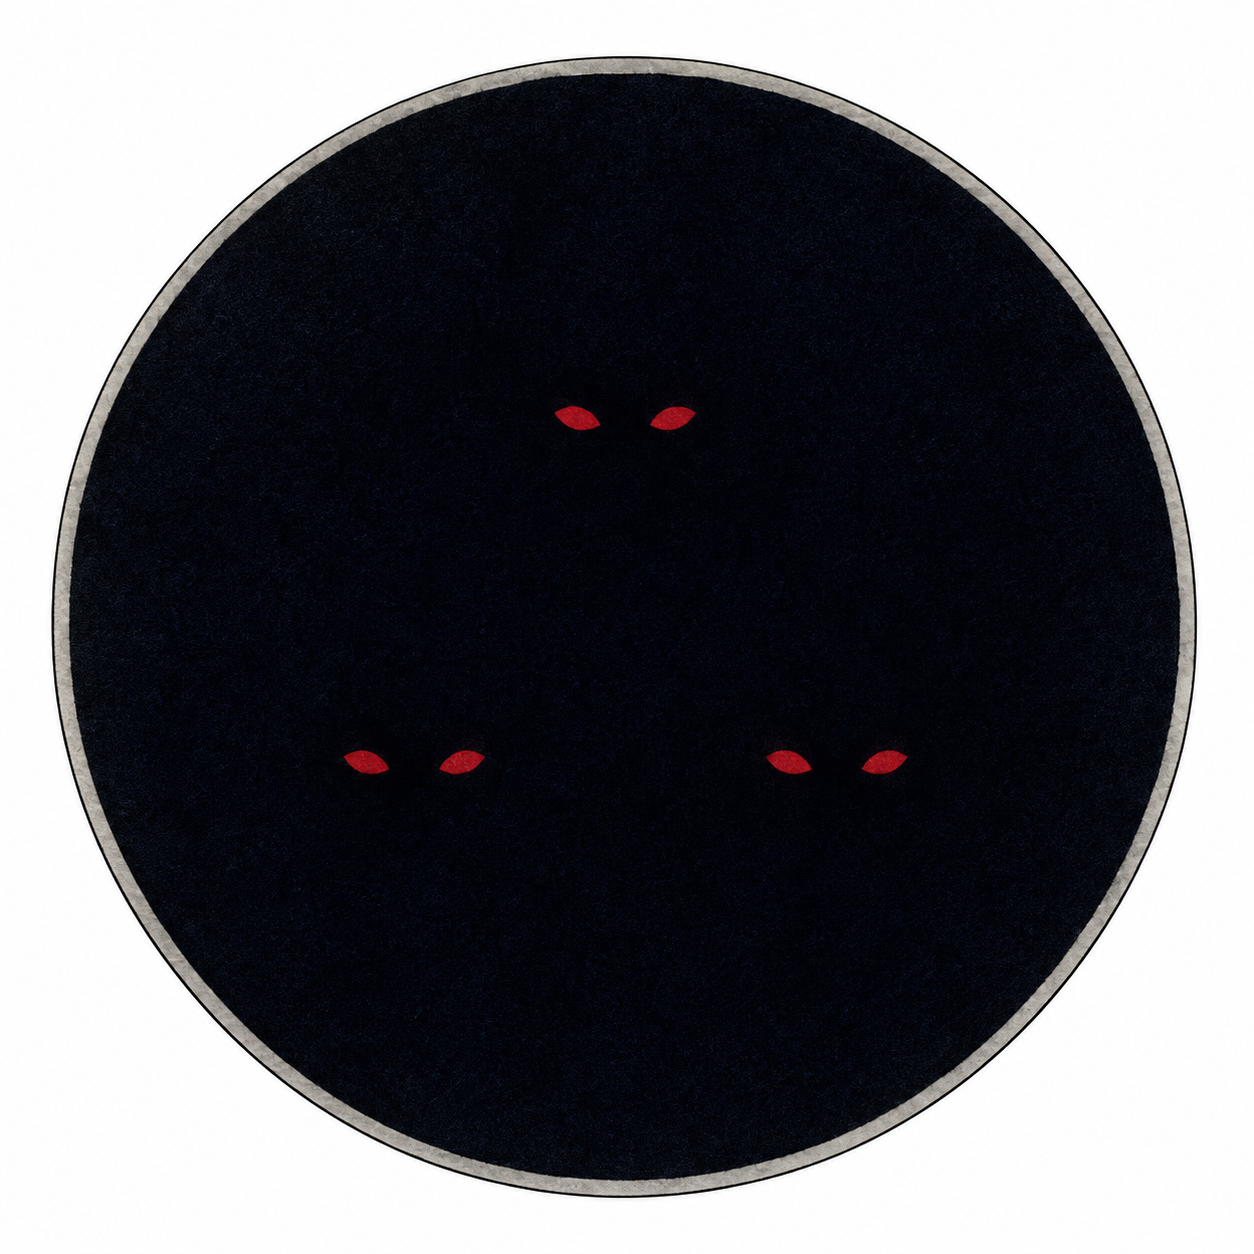
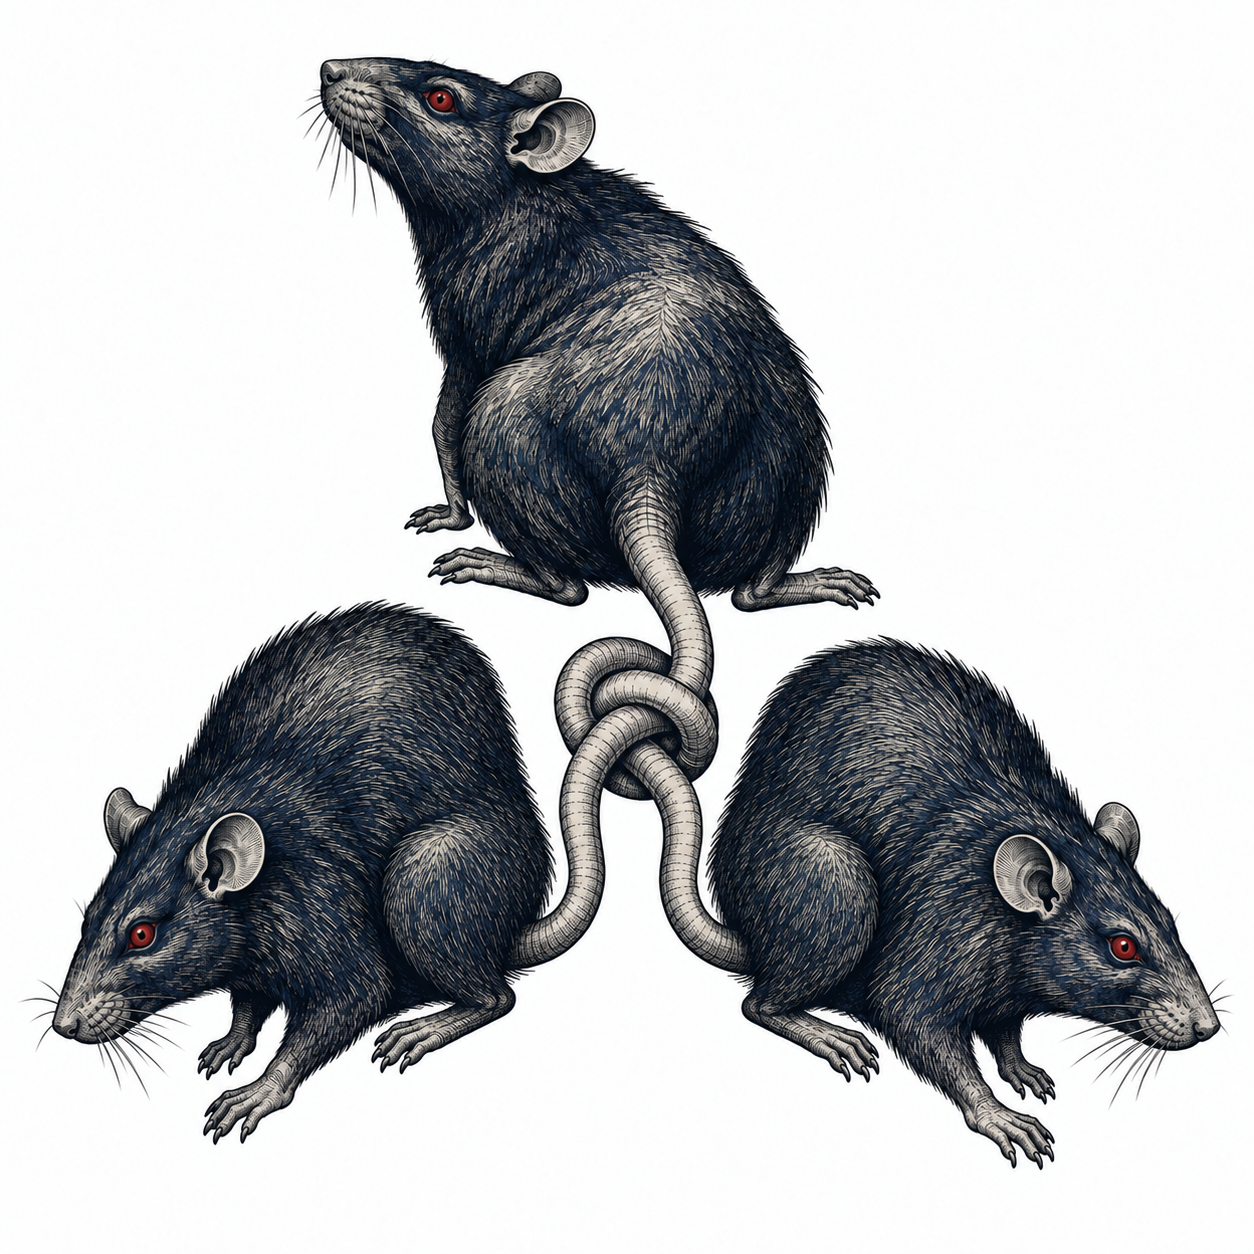
Nachtmahr: больше воздуха между ролями, значок «крысиный король»

diff --git a/tools/nachtmahr.py b/tools/nachtmahr.py
@@ -83,7 +83,7 @@ body { -webkit-print-color-adjust: exact; print-color-adjust: exact; font-family
 # ---------------------------------------------------------------- лист ролей (приоритет тексту)
 
 ROLES_CSS = """
-:root { --ab: 10pt; --gap: 1mm; }
+:root { --ab: 10pt; --gap: var(--gap0); --gap0: 2.5mm; }  /* промежуток между ролями не меньше 2.5 мм — просьба пользователя (воздух важнее 0.7 pt) */
 .content { position: absolute; left: 8.5mm; right: 8.5mm; top: 8mm; bottom: 8.5mm; display: flex; flex-direction: column; }
 .head { flex: none; display: flex; align-items: center; justify-content: space-between; padding: 0 3mm 0 4mm; }
 .titlebox { display: flex; align-items: flex-end; gap: 2.5mm; }
@@ -131,8 +131,10 @@ ROLES_JS = """<script>
   }
   let ab = 14;
   for (; ab >= 7.5; ab = Math.round((ab - 0.1) * 10) / 10) { root.setProperty('--ab', ab + 'pt'); balance(); if (!over()) break; }
-  let gap = 1;
-  for (; gap <= 4; gap = Math.round((gap + 0.1) * 10) / 10) {
+  const gap0 = parseFloat(getComputedStyle(document.documentElement).getPropertyValue('--gap0'));
+  root.setProperty('--gap', gap0 + 'mm');
+  let gap = gap0;
+  for (; gap <= gap0 + 3; gap = Math.round((gap + 0.1) * 10) / 10) {
     root.setProperty('--gap', gap + 'mm'); balance();
     if (over()) { gap = Math.round((gap - 0.1) * 10) / 10; root.setProperty('--gap', gap + 'mm'); balance(); break; }
   }
